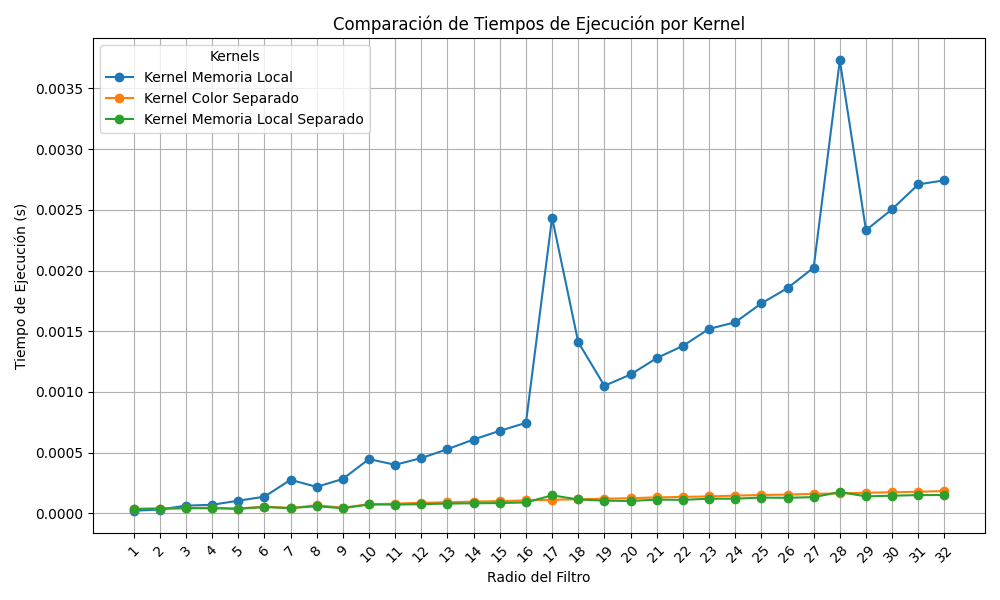
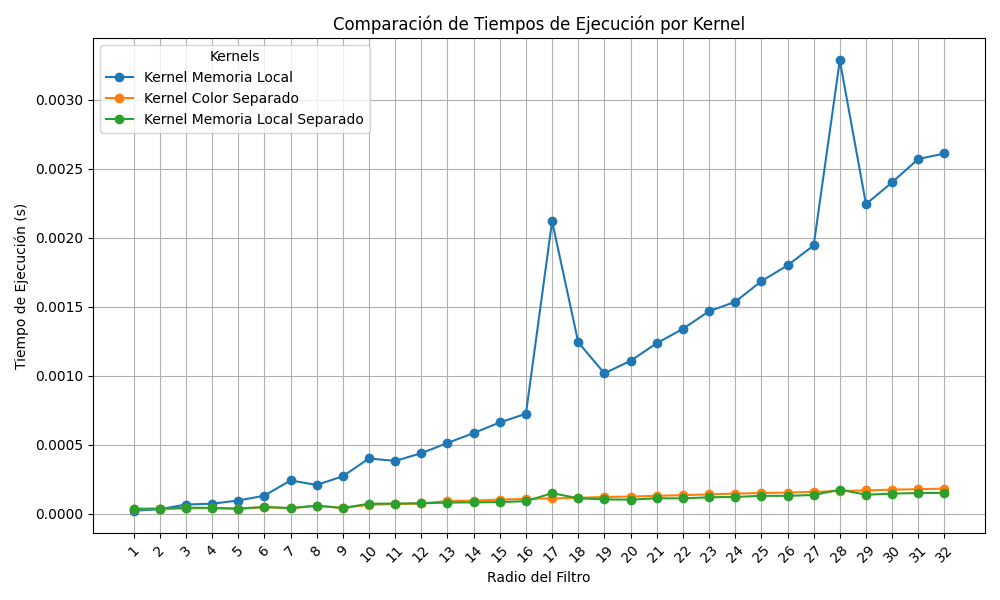
cambios filtros separables

diff --git a/FILTROS IMAGENES/funciones_ejecutar_kernel_filtros.py b/FILTROS IMAGENES/funciones_ejecutar_kernel_filtros.py
@@ -230,6 +230,86 @@ def aplicar_filtro_color_100(image_path:str, filtro:list,kernel_code:str,kernel_
     return imagen_resultante, avg_time
 
 
+def aplicar_filtro_color_local_100(image_path:str, filtro:list,kernel_code:str,kernel_name:str, device_type:str,local_size:tuple)->tuple[Image.Image, float]:
+    """
+    Aplica un filtro a una imagen utilizando OpenCL, ejecutando el kernel 1000 veces para medir el tiempo promedio de ejecución.
+
+    Parámetros:
+    - image_path (str): Ruta de la imagen a procesar.
+    - filtro (ndarray): Filtro que se aplicará a la imagen.
+    - kernel_code (str): Código del kernel OpenCL.
+    - kernel_name (str): Nombre del kernel OpenCL.
+    - device_type (str): Tipo de dispositivo en el que se ejecuta el kernel (CPU o GPU).
+    - local_size (int): Tamaño del workgroup en el que se ejecutará el kernel.
+
+    Retorna:
+    - imagen_resultante (Image): Imagen resultante después de aplicar el filtro.
+    - avg_time (float): Tiempo promedio de ejecución por iteración después de ejecutar el kernel 1000 veces.
+    """
+    # Cargar la imagen y convertirla en un array
+    imagen = Image.open(image_path)
+    imagen_np = np.array(imagen).astype(np.uint8)
+
+    # Dimensiones de la imagen
+    tam_x, tam_y, _ = imagen_np.shape
+    
+    # Preparación del contexto y del kernel
+    platform = cl.get_platforms()[0]
+    device = platform.get_devices(device_type=device_type)[0]
+    context = cl.Context([device])
+    command_queue = cl.CommandQueue(context)
+    filtro_buf = cl.Buffer(context, cl.mem_flags.READ_ONLY | cl.mem_flags.COPY_HOST_PTR, hostbuf=filtro)
+
+    # Compilación del kernel
+    program = cl.Program(context, kernel_code).build()
+    kernel = cl.Kernel(program, kernel_name)
+
+    # Crear buffers
+    buffer_in = cl.Buffer(context, cl.mem_flags.READ_ONLY | cl.mem_flags.COPY_HOST_PTR, hostbuf=imagen_np)
+    buffer_out = cl.Buffer(context, cl.mem_flags.WRITE_ONLY, imagen_np.nbytes)
+
+    # Establecer global_size
+    global_size = (tam_x, tam_y)
+
+    dim = filtro.shape[0]
+    centro = (dim - 1) // 2
+    local_size_x, local_size_y = local_size
+    local_mem_size = (local_size_x + 2 * centro) * (local_size_y + 2 * centro) * 3  # 3 canales RGB
+
+    local_mem = cl.LocalMemory(local_mem_size)
+
+    # Argumentos del kernel
+    args_kernel = [buffer_in, buffer_out, filtro_buf, np.int32(filtro.shape[0]), np.int32(imagen_np.shape[1]), np.int32(imagen_np.shape[0]),local_mem]
+    
+    establecer_args_kernel(kernel, args_kernel)
+
+    # Contar tiempo total
+    start_time = time.time()
+
+    # Ejecutar el kernel 100 veces
+    for _ in range(1000):
+        cl.enqueue_nd_range_kernel(command_queue, kernel, global_size, local_size)
+
+    # Esperar a que todas las operaciones terminen
+    command_queue.finish()
+
+    # Medir tiempo final
+    end_time = time.time()
+
+    # Calcular tiempo total y promedio
+    total_time = end_time - start_time
+    avg_time = total_time / 1000
+
+    # Leer el buffer de salida
+    imagen_out_np = np.empty_like(imagen_np)
+    cl.enqueue_copy(command_queue, imagen_out_np, buffer_out)
+
+    # Crear la imagen resultante
+    imagen_resultante = Image.fromarray(imagen_out_np)
+
+    return imagen_resultante, avg_time
+
+
 '''
 APLICA FILTRO COLOR DE CUALQUIER TAMAÑO EL FILTRO, NO NECESARIAMENTE CUADRADO
 '''

diff --git a/FILTROS IMAGENES/ejecutar_experimento_filtros.py b/FILTROS IMAGENES/ejecutar_experimento_filtros.py
@@ -205,7 +205,6 @@ def filtros_divididos_o_no(path, device_type, image_path):
 
     # Definir los kernels a usar en el experimento
     kernels_codes = [
-        kernel.kernel_filter_color,
         kernel.kernel_filter_color_local_organizado,  # Kernel con acceso organizado a memoria local
         kernel.kernel_filter_color_rectangular,       # Kernel que aplica un filtro rectangular
         kernel.kernel_filter_color_local_rectangular  # Kernel que aplica un filtro rectangular con memoria local
@@ -213,7 +212,6 @@ def filtros_divididos_o_no(path, device_type, image_path):
 
     # Nombres identificativos de los kernels
     kernels_names = [
-        "kernel_filter_color",
         "kernel_filter_color_local_organizado",
         "kernel_filter_color_rectangular",
         "kernel_filter_color_local_rectangular"
@@ -221,8 +219,7 @@ def filtros_divididos_o_no(path, device_type, image_path):
 
     # Funciones que aplican los filtros correspondientes a cada kernel
     funciones = [
-        ff.aplicar_filtro,
-        ff.aplicar_filtro_local,                     # Función que aplica filtro con memoria local
+        ff.aplicar_filtro_color_local_100,                     # Función que aplica filtro con memoria local
         ff.aplicar_filtro_color_dividido,            # Función que aplica filtro dividido (X, Y)
         ff.aplicar_filtro_local_dividido             # Función que aplica filtro dividido con memoria local
     ]

diff --git a/FILTROS IMAGENES/funciones_experimento_filtros.py b/FILTROS IMAGENES/funciones_experimento_filtros.py
@@ -771,8 +771,6 @@ def comparar_filtros(kernels_codes, kernels_names, funciones, image_path, local_
     # Crear gráfico de líneas
     plt.figure(figsize=(10, 6))
     for column in df.columns:
-        if column=="kernel_filter_color":
-           label="Kernel Color"
         if column=='kernel_filter_color_local_organizado':
            label='Kernel Memoria Local'
            
